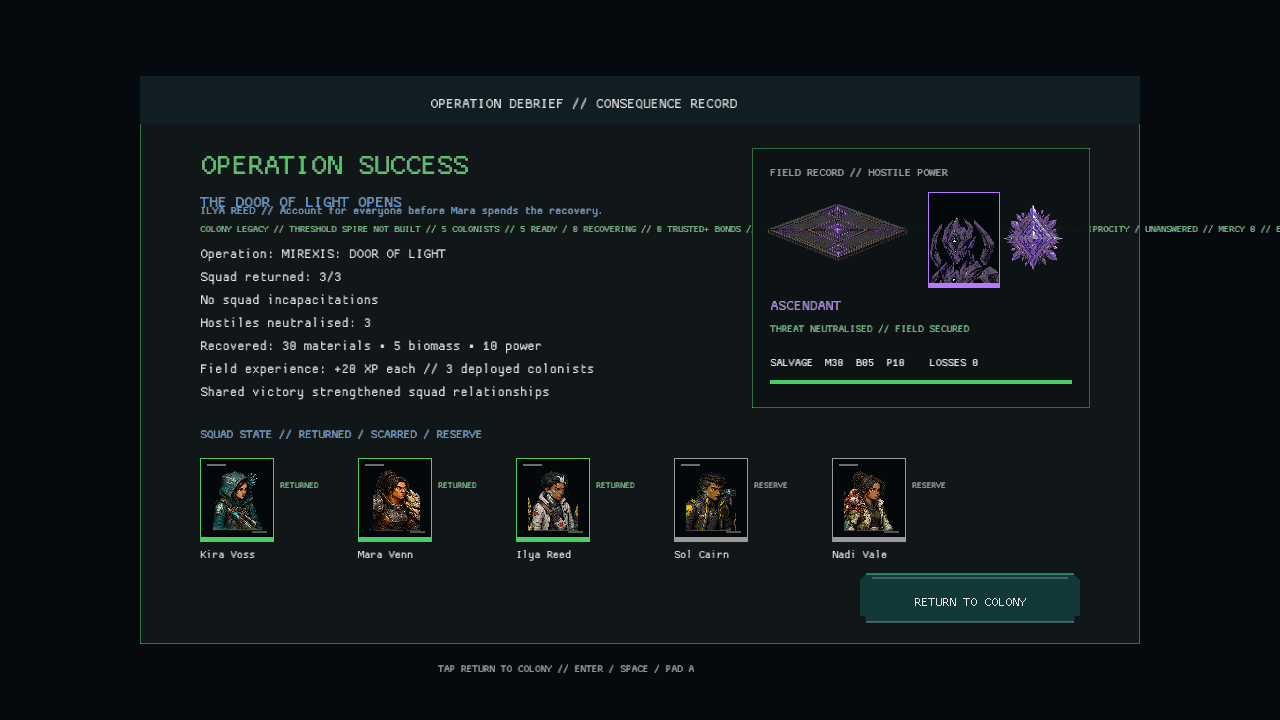
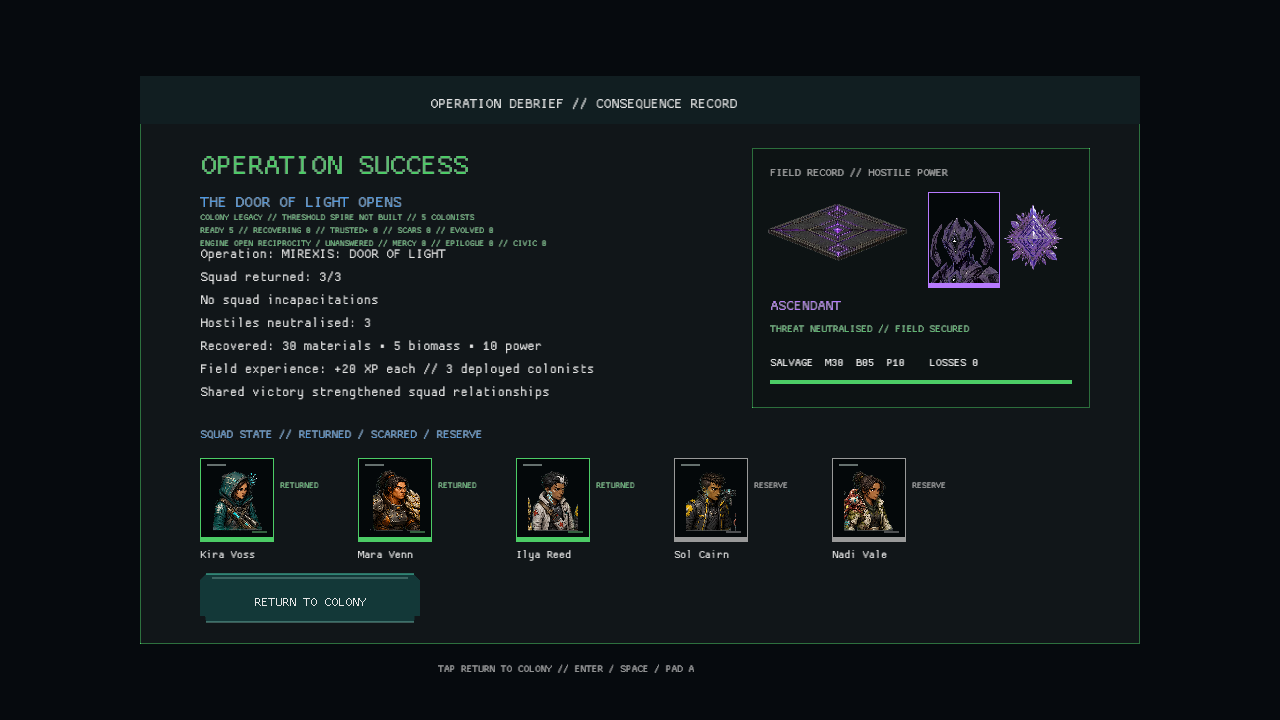
The ending leaves room for the living record (finale debrief)
The completed-campaign debrief drew its colony legacy as one unbounded line, crossing the reward card and retaining an early-operation voice in finale states. Replace it with bounded legacy summary lines, keep the full dossier in the colony register, suppress the stale early guidance, and record the 1.201.0 no-schema-change checkpoint.

diff --git a/src/epilogue.rs b/src/epilogue.rs
@@ -8,10 +8,14 @@ pub(crate) struct EpilogueDossier {
     pub(crate) institution: String,
     pub(crate) institution_status: &'static str,
     people: String,
+    ready: usize,
+    recovering: usize,
     trusted_bonds: usize,
     bond_detail: String,
     scars: String,
+    scar_count: usize,
     evolutions: String,
+    evolved_count: usize,
     character_voice: String,
     navigator_voice: String,
     engine_relationship: &'static str,
@@ -51,21 +55,31 @@ impl EpilogueDossier {
         ]
     }
 
-    pub(crate) fn debrief_line(&self) -> String {
-        format!(
-            "COLONY LEGACY // {} {} // {} // {} TRUSTED+ BONDS // {} // {} // ENGINE {} / {} // MERCY {} // EPILOGUE WORK {} // CIVIC WORK {}",
-            self.institution.to_uppercase(),
-            self.institution_status,
-            self.people,
-            self.trusted_bonds,
-            self.scars,
-            self.evolutions,
-            self.engine_relationship,
-            self.engine_response,
-            self.mercy_count,
-            self.post_campaign_operations_completed,
-            self.identity_stewardship_completed
-        )
+    pub(crate) fn debrief_summary_lines(&self) -> [String; 3] {
+        [
+            format!(
+                "COLONY LEGACY // {} {} // {} COLONISTS",
+                self.institution.to_uppercase(),
+                self.institution_status,
+                self.people.split_whitespace().next().unwrap_or("0")
+            ),
+            format!(
+                "READY {} // RECOVERING {} // TRUSTED+ {} // SCARS {} // EVOLVED {}",
+                self.ready,
+                self.recovering,
+                self.trusted_bonds,
+                self.scar_count,
+                self.evolved_count
+            ),
+            format!(
+                "ENGINE {} / {} // MERCY {} // EPILOGUE {} // CIVIC {}",
+                self.engine_relationship,
+                self.engine_response,
+                self.mercy_count,
+                self.post_campaign_operations_completed,
+                self.identity_stewardship_completed
+            ),
+        ]
     }
 }
 
@@ -175,10 +189,14 @@ pub(crate) fn derive(campaign: &CampaignState) -> Option<EpilogueDossier> {
         institution,
         institution_status,
         people,
+        ready,
+        recovering,
         trusted_bonds: trusted.len(),
         bond_detail,
         scars,
+        scar_count,
         evolutions,
+        evolved_count: evolved.len(),
         character_voice,
         navigator_voice,
         engine_relationship,

diff --git a/src/ui_debrief.rs b/src/ui_debrief.rs
@@ -22,6 +22,10 @@ fn experience_summary(outcome: &MissionOutcome) -> String {
     )
 }
 
+fn show_early_debrief_voice(campaign: &CampaignState) -> bool {
+    !campaign.strategy.campaign_complete && campaign.operations_completed <= 2
+}
+
 #[derive(Debug, Clone, Copy, PartialEq, Eq)]
 enum SquadStatus {
     Returned,
@@ -126,10 +130,17 @@ pub fn draw_debrief(
             dark::ACCENT,
         );
         if let Some(dossier) = crate::epilogue::derive(campaign) {
-            draw_text(dossier.debrief_line(), 200.0, 232.0, 12.0, dark::POSITIVE);
+            for (index, line) in dossier.debrief_summary_lines().iter().enumerate() {
+                crate::ui::draw_ui_text_ex(
+                    line,
+                    200.0,
+                    220.0 + index as f32 * 13.0,
+                    TextStyle::new(11.0, dark::POSITIVE).params(),
+                );
+            }
         }
     }
-    if campaign.operations_completed <= 2 {
+    if show_early_debrief_voice(campaign) {
         draw_text(
             if won {
                 "ILYA REED // Account for everyone before Mara spends the recovery."

diff --git a/src/epilogue/tests.rs b/src/epilogue/tests.rs
@@ -60,12 +60,16 @@ fn epilogue_records_the_civic_state_and_people_who_carried_it() {
     assert!(lines[7].contains("MERCY 1"));
     assert!(lines[7].contains("EPILOGUE WORK 2"));
     assert!(lines[7].contains("CIVIC WORK 3"));
-    assert!(dossier.debrief_line().contains("COLONY LEGACY"));
-    assert!(dossier
-        .debrief_line()
-        .contains("ENGINE HUMAN BOUNDARY / ARMOURED"));
-    assert!(dossier.debrief_line().contains("EPILOGUE WORK 2"));
-    assert!(dossier.debrief_line().contains("CIVIC WORK 3"));
+    let summary = dossier.debrief_summary_lines();
+    assert!(summary[0].contains("REDOUBT ARSENAL ONLINE"));
+    assert!(summary[0].contains("5 COLONISTS"));
+    assert!(summary[1].contains("READY 5"));
+    assert!(summary[1].contains("TRUSTED+ 1"));
+    assert!(summary[1].contains("SCARS 1"));
+    assert!(summary[1].contains("EVOLVED 1"));
+    assert!(summary[2].contains("ENGINE HUMAN BOUNDARY / ARMOURED"));
+    assert!(summary[2].contains("EPILOGUE 2"));
+    assert!(summary[2].contains("CIVIC 3"));
 }
 
 #[test]

diff --git a/src/ui_debrief/tests.rs b/src/ui_debrief/tests.rs
@@ -30,6 +30,17 @@ fn experience_summary_discloses_defeat_award_per_deployed_colonist() {
 }
 
 #[test]
+fn completed_campaign_debrief_hides_early_operation_voice() {
+    let data = crate::data::GameData::load().unwrap();
+    let mut campaign = CampaignState::new(&data);
+    campaign.operations_completed = 2;
+    assert!(show_early_debrief_voice(&campaign));
+
+    campaign.strategy.campaign_complete = true;
+    assert!(!show_early_debrief_voice(&campaign));
+}
+
+#[test]
 fn squad_status_distinguishes_fielded_reserve_and_incapacitated_colonists() {
     let deployed_ids = vec!["kira_voss".to_owned()];
     let incapacitated = vec![CharacterConsequence {

diff --git a/docs/verification/FINAL_CAPTURE_INVENTORY.md b/docs/verification/FINAL_CAPTURE_INVENTORY.md
@@ -32,6 +32,7 @@ Manifest: `scripts/capture_ui.ps1`
 - `ui_first_hour_operations.png`: guided colony handoff keeps the next mission briefing and active preparation visible inside the open Operations drawer.
 - `ui_battle_log.png` and `ui_phase_replay.png`: attack history and hostile replay beats use readable display names, name HIT/MISS outcomes with immediate damage consequences, and the battle log distinguishes ability, recovery, status, objective, and cover events with matching counts on each filter.
 - `ui_debrief.png`: the operation result keeps rewards and squad consequences visible while the notification stack names each automatic technique learned by a readable colonist name.
+- `ui_finale_debrief.png`: the completed-campaign title, bounded legacy summary, operation result, and reward card remain separated and readable.
 - `ui_gene_lab.png` and `ui_recruited_gene_lab.png`: the mutation anatomy scan label remains visible above the separated irreversible evolution cards.
 - `ui_roster.png` and `ui_recruited_roster.png`: the complete equipment catalog clears the footer instruction baseline in both roster variants.
 - `ui_combat_feedback.png`: hit, miss, critical, damage, recovery, objective, and cover callouts remain anchored to their affected field locations and stack clear of unit effects.
@@ -64,7 +65,7 @@ Manifest: `scripts/capture_ui.ps1`
[8 lines of base64/hex data omitted]

diff --git a/docs/PHASE_1_HARDENING.md b/docs/PHASE_1_HARDENING.md
@@ -31,7 +31,7 @@ Status: automated and internal verification complete; external playtests pending
 
 ## Automated verification baseline
 
-- 497 Mirexis unit tests pass, including deployment-row affordance coverage for full,
+- 498 Mirexis unit tests pass, including deployment-row affordance coverage for full,
   minimum, and recovering squads, construction availability coverage for unlocks,
   materials, and unique projects, effective repair-cost affordability coverage, and
   tactical equipment cancellation coverage, invalid-target persistence coverage, and
@@ -56,7 +56,8 @@ Status: automated and internal verification complete; external playtests pending
   coverage, and campaign decision resource-gate
   label coverage, facility-upgrade blocker-label coverage, first-hour investment
   material-gate label coverage, character-event food-gate label coverage, Build Mode
-   construction-blocker label coverage, and roster equipment-row geometry coverage.
+  construction-blocker label coverage, roster equipment-row geometry coverage, finale
+  debrief summary coverage, and completed-campaign debrief voice coverage.
 - External asset-registry and Rust source-size gates pass.
 - `publish.ps1` passes without parameters for Windows and WebGL and deploys to preview.
 - The canonical set contains 100 audited 1280×720 scenes, including the first-hour

diff --git a/TECHNICAL_DESIGN.md b/TECHNICAL_DESIGN.md
@@ -2,7 +2,7 @@
 
 Status: systems-rich tech demo; playable-game refinement in progress
 Current production target: cohesive first-hour playable build
-Save/content version: 1.200.0
+Save/content version: 1.201.0
 Target platforms: Windows and browser/WASM
 Runtime: Rust 2021, Macroquad, macroquad-toolkit
 
@@ -976,6 +976,7 @@ Migration coverage:
 | 1.198.0 | Automatic post-operation technique learning now reports each readable colonist and technique in the debrief notification stack; no new save fields |
 | 1.199.0 | Gene Lab evolution cards now clear the portrait anatomy scan label and the return control; no new save fields |
 | 1.200.0 | Roster equipment rows now clear the footer instruction baseline across the full catalog; no new save fields |
+| 1.201.0 | Finale debrief legacy summaries now use bounded readable lines and suppress early-operation guidance after campaign completion; no new save fields |
 
 Every future schema bump must migrate the immediately previous version and add a
 fixture test. Validate saved content IDs before adding content removal or renaming.

diff --git a/docs/verification/UI_GRAPHICS_ACCEPTANCE_MATRIX.md b/docs/verification/UI_GRAPHICS_ACCEPTANCE_MATRIX.md
@@ -84,7 +84,7 @@ Each row must have a post-overhaul PNG in the final capture directory and pass t
 | redoubt_end | Ending | Ending reuses colony grid | `ui_redoubt_end.png` | PASS |
 | commonwealth_end | Ending | Ending reuses colony grid | `ui_commonwealth_end.png` | PASS |
 | threshold_end | Ending | Ending reuses colony grid | `ui_threshold_end.png` | PASS |
-| finale_debrief | Debrief | Sparse text modal | `ui_finale_debrief.png` | PASS |
+| finale_debrief | Debrief | Unbounded colony legacy summary crossed the reward card and retained early-operation guidance | `ui_finale_debrief.png` | PASS |
 | adaptation_operation | Briefing | Weak mission scene identity | `ui_adaptation_operation.png` | PASS |
 | glass_nerve | Tactical | Flat rectangular battlefield | `ui_glass_nerve.png` | PASS |
 | three_knives | Tactical | Flat rectangular battlefield | `ui_three_knives.png` | PASS |

diff --git a/docs/PHASE_1_ACCEPTANCE_MATRIX.md b/docs/PHASE_1_ACCEPTANCE_MATRIX.md
@@ -1,7 +1,7 @@
 # Phase 1 Acceptance Matrix
 
 Status: implementation evidence audited; observed-session gates pending
-Audit baseline: save/content 1.200.0, validated and committed with this matrix
+Audit baseline: save/content 1.201.0, validated and committed with this matrix
 
 This matrix maps every Phase 1 workstream and definition-of-done requirement to
 authoritative evidence. `VERIFIED` means code, tests, captures, or an operator-run path
